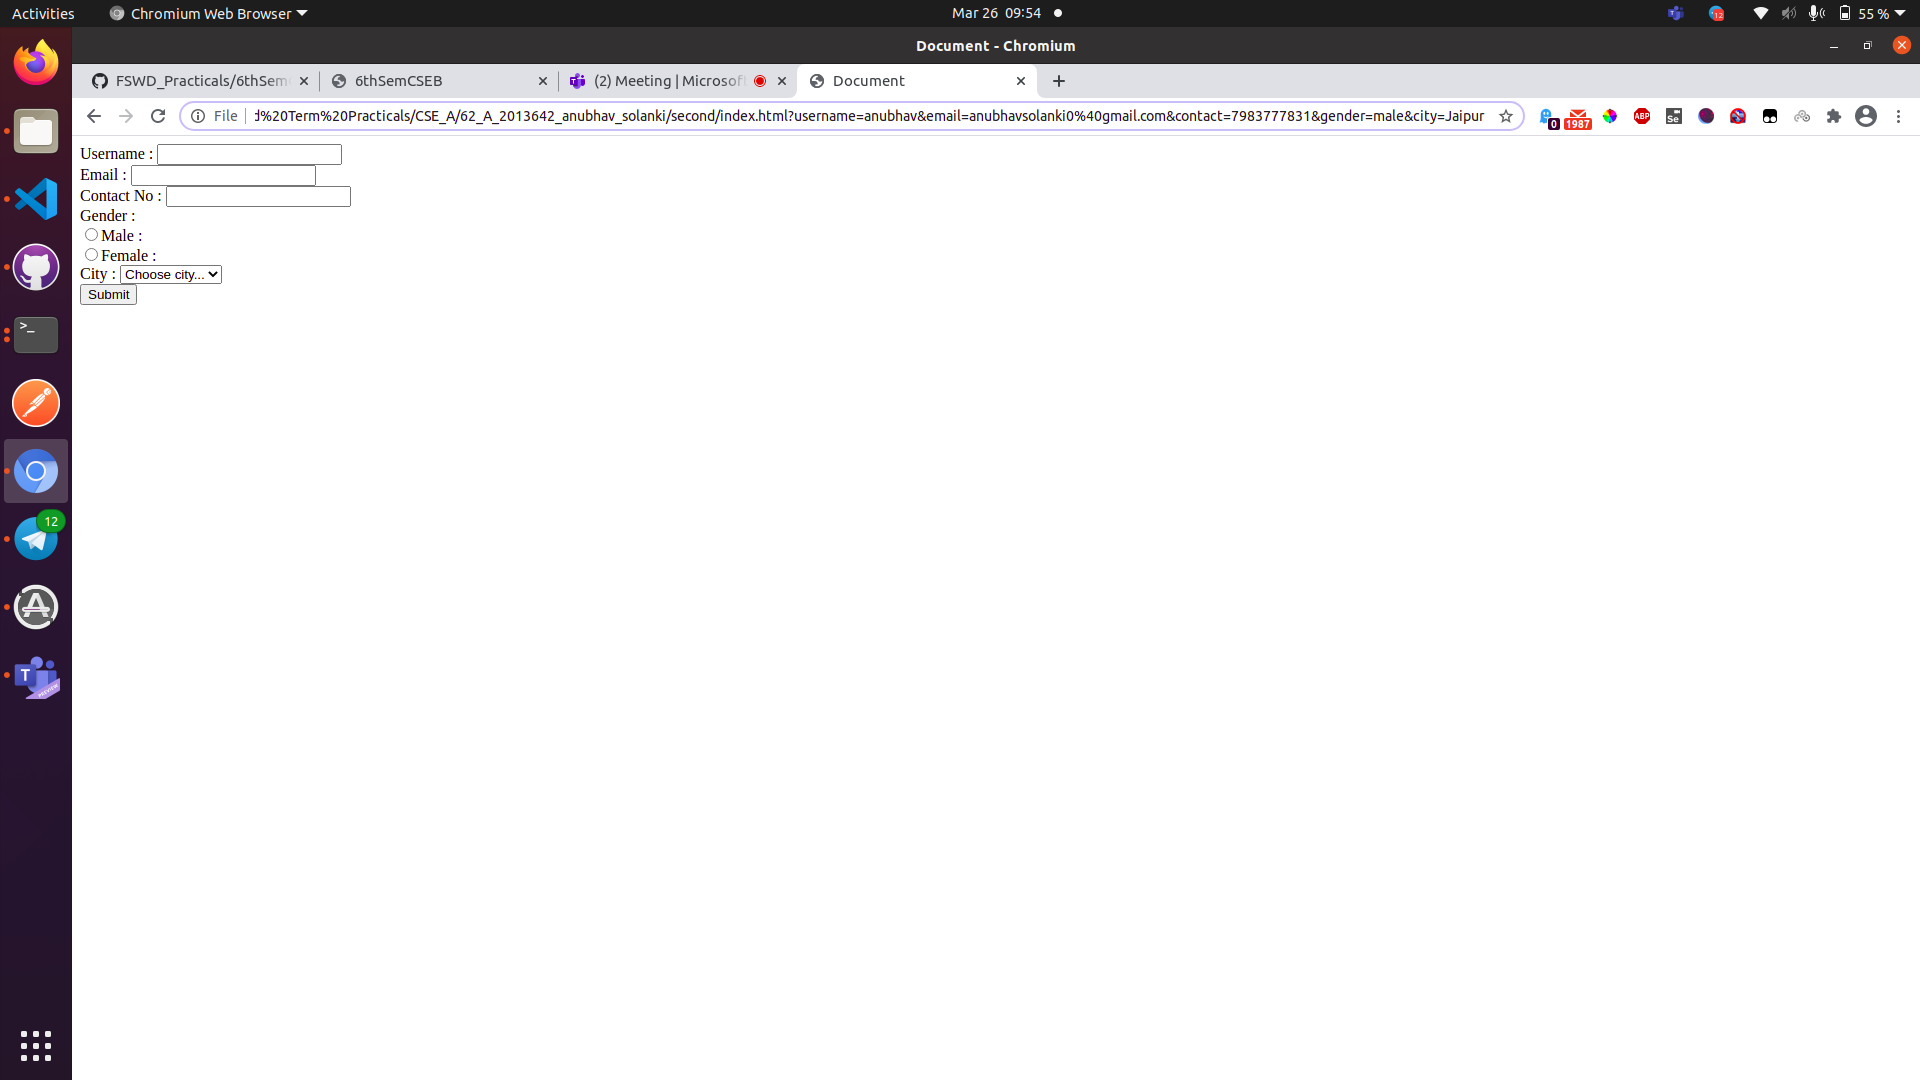
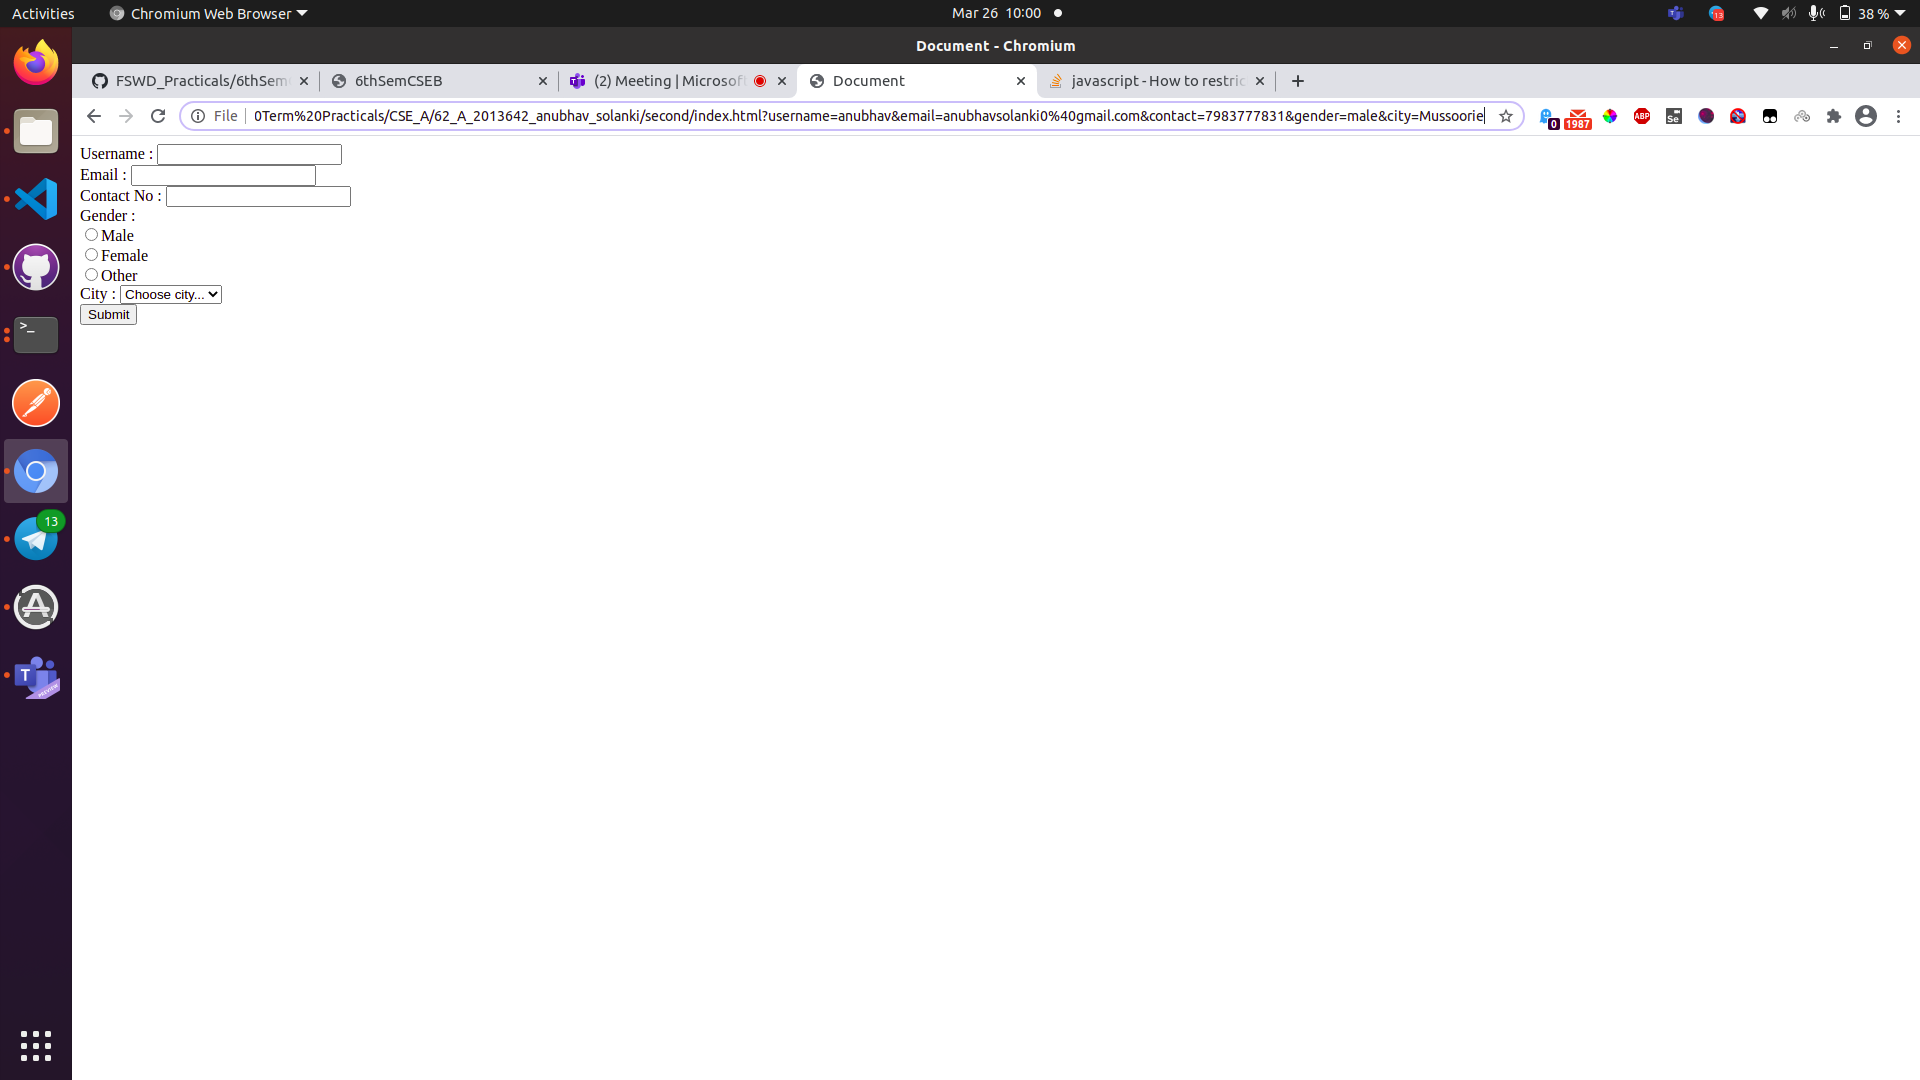
added validation

Changed region(s): [[0.125, 0.0611, 0.7812, 0.1222], [0.0312, 0.2444, 0.125, 0.3056]]

diff --git a/Mid Term Practicals/CSE_A/62_A_2013642_anubhav_solanki/second/index.html b/Mid Term Practicals/CSE_A/62_A_2013642_anubhav_solanki/second/index.html
@@ -10,10 +10,11 @@
     <form method="get">
         <div><label for="username">Username : </label><input  type="text" name="username" required></div>
         <div><label for="email">Email : </label><input name="email" type="email"></div>
-        <div><label for="contact">Contact No : </label><input name="contact" type="text"></div>
+        <div><label for="contact">Contact No : </label><input name="contact" type="text" maxlength="10" pattern="\d{10}"></div>
         <div><label>Gender : </label>
-            <div><input name="gender" type="radio" value="male"><label for="gender">Male : </label></div>
-            <div><input name="gender" type="radio" value="female"><label for="gender">Female : </label></div>
+            <div><input name="gender" type="radio" value="male"><label for="gender">Male</label></div>
+            <div><input name="gender" type="radio" value="female"><label for="gender">Female</label></div>
+            <div><input name="gender" type="radio" value="other"><label for="gender">Other</label></div>
         </div>
         <div>
             <label for="city">City : </label>
